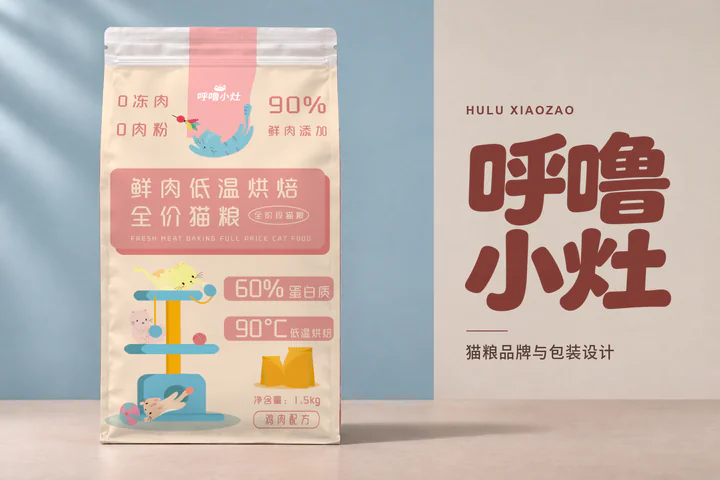
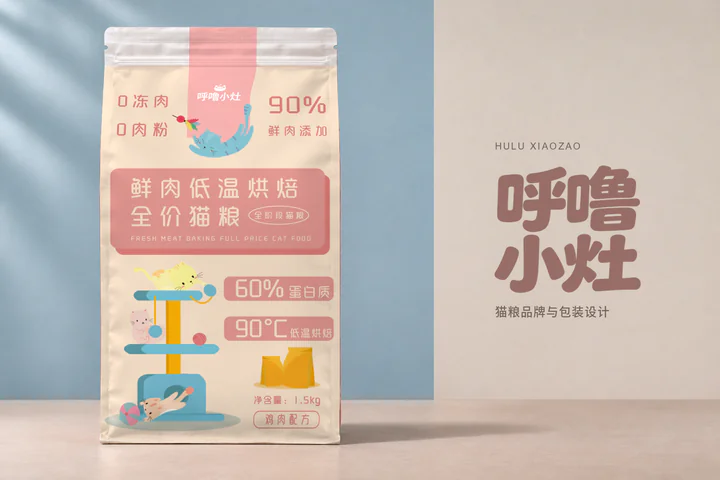
Reduce and soften the 呼噜小灶 cover lettering

Changed region(s): [[0.6417, 0.25, 0.9472, 0.6875], [0.6417, 0.6875, 0.8556, 0.75], [0.6417, 0.2188, 0.7944, 0.25]]

diff --git a/project.js b/project.js
@@ -1,9 +1,9 @@
 const projects = {
   'hulu-xiaozao': {
     title: '呼噜小灶', english: 'Hulu Xiaozao', category: '包装设计', categoryKey: 'packaging',
-    type: '猫粮品牌与包装设计', cover: '/projects/hulu-xiaozao/media/project-cover.webp',
-    coverAlt: '呼噜小灶项目封面，左侧为猫粮包装正面渲染图，右侧以深陶红色标题搭配猫粮品牌与包装设计副标题',
-    coverDetails: { preview: '/projects/hulu-xiaozao/media/project-cover.webp', thumb: '/projects/hulu-xiaozao/media/project-cover-sm.webp', width: 1536, height: 1024 },
+    type: '猫粮品牌与包装设计', cover: '/projects/hulu-xiaozao/media/project-cover.webp?v=2',
+    coverAlt: '呼噜小灶项目封面，左侧为猫粮包装正面渲染图，右侧以灰调豆沙色品牌字标与暖灰色副标题',
+    coverDetails: { preview: '/projects/hulu-xiaozao/media/project-cover.webp?v=2', thumb: '/projects/hulu-xiaozao/media/project-cover-sm.webp?v=2', width: 1536, height: 1024 },
     next: 'lumirose-atoll', nextName: 'LUMIROSE ATOLL 肤屿玫瑰',
     exhibit: {
       heading: '呼噜小灶', kicker: '猫粮品牌与包装设计', subtitle: 'Hulu Xiaozao · 鲜肉低温烘焙全价猫粮',

diff --git a/projects/hulu-xiaozao/index.html b/projects/hulu-xiaozao/index.html
@@ -15,7 +15,7 @@
   <link rel="stylesheet" href="../../coffee-exhibit.css?v=20261104-2">
   <link rel="stylesheet" href="../../gallery-boundary.css?v=20261103-2">
   <script src="../../project-gallery-data.js?v=hulu-project-cover-1" defer></script>
-  <script src="../../project.js?v=hulu-project-cover-1" defer></script>
+  <script src="../../project.js?v=hulu-project-cover-2" defer></script>
   <script src="../../assets/project-exhibit/project-exhibit.js?v=20261121-cloud" defer></script>
   <script src="../../assets/project-exhibit/detail-chrome.js?v=1" defer></script>
   <script src="../../gallery-carousel.js?v=20261103-1" defer></script>
